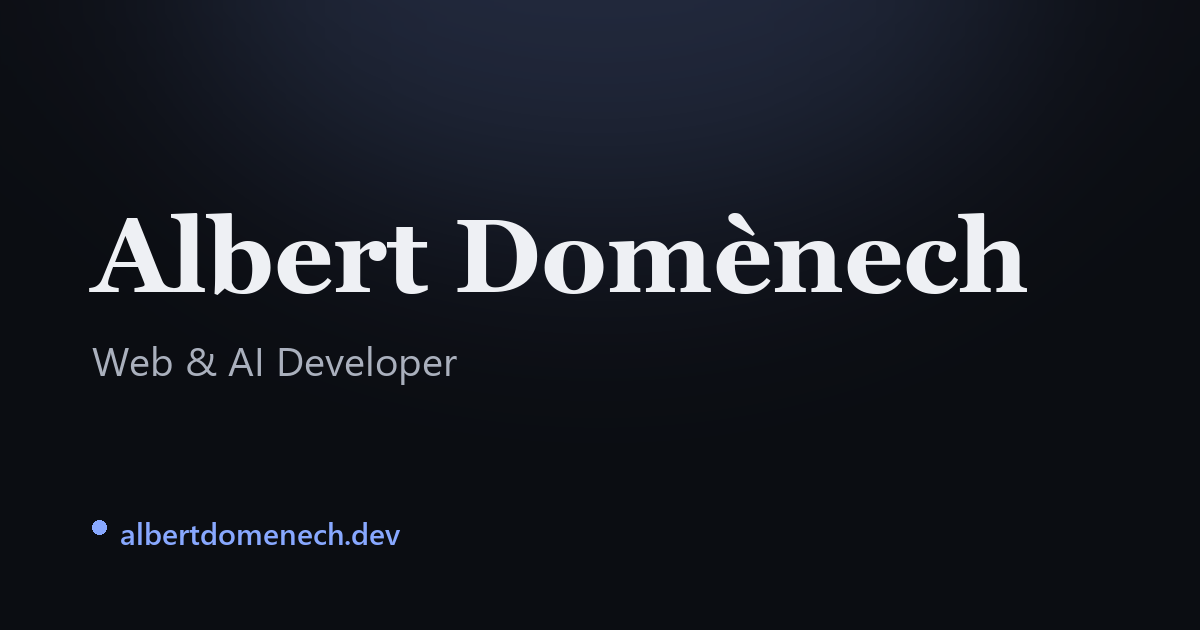
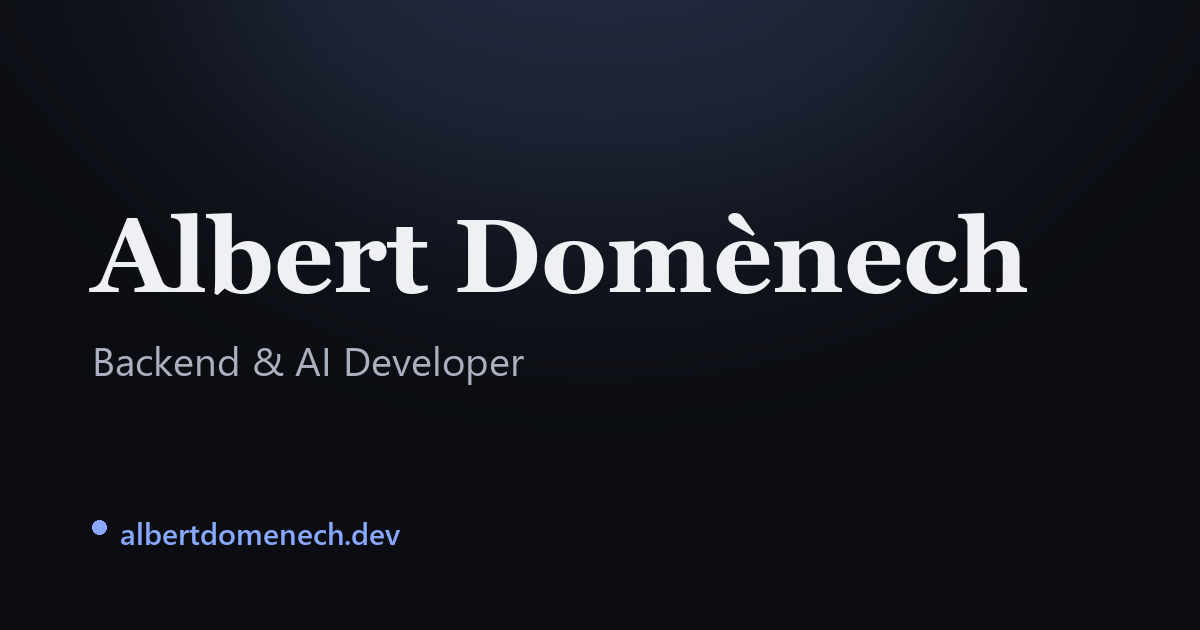
content: reposition hero and metadata as Backend & AI Developer

Changed region(s): [[0.0617, 0.5429, 0.4317, 0.6032]]

diff --git a/src/i18n/ui.ts b/src/i18n/ui.ts
@@ -9,16 +9,16 @@ export function pick(value: string | Localized, lang: Lang): string {
 
 export const ui = {
   es: {
-    title: 'Albert Domènech — Web & AI Developer',
-    desc: 'Albert Domènech — desarrollador web y de IA. App Android publicada en Google Play, software a medida en producción y herramientas de IA propias.',
-    ogDesc: 'Desarrollador web y de IA. App Android publicada en Google Play, software a medida en producción y herramientas de IA propias.',
-    twDesc: 'Desarrollador web y de IA. App publicada, software en producción y herramientas de IA propias.',
+    title: 'Albert Domènech — Backend & AI Developer',
+    desc: 'Albert Domènech — desarrollador backend e IA aplicada: APIs, integraciones, RAG y agentes. App publicada en Google Play y software en producción para clientes.',
+    ogDesc: 'Desarrollador backend e IA aplicada: APIs, integraciones, RAG y agentes. App publicada en Google Play y software en producción para clientes.',
+    twDesc: 'Backend e IA aplicada: APIs, integraciones, RAG y agentes.',
     navLabel: 'Navegación principal',
     logoLabel: 'Albert Domènech — inicio',
     navSkills: 'Skills',
     navProjects: 'Proyectos',
     navContact: 'Contacto',
-    heroRole: 'Desarrollador web y de IA. Freelance, y en prácticas de I+D en IA.',
+    heroRole: 'Desarrollador backend e IA aplicada: APIs, integraciones, RAG y agentes.',
     heroBio: 'Construyo producto de principio a fin dirigiendo agentes de IA y revisando cada línea: desde una app Android publicada en Google Play con cientos de usuarios, hasta software a medida en producción para clientes reales. Ahora, en prácticas, levanto un sistema interno de agentes y RAG en una empresa industrial. Me mueve la IA, la automatización y crear cosas que de verdad funcionan.',
     heroCta: 'Ver proyectos',
     skillsLabel: 'Skills',
@@ -35,16 +35,16 @@ export const ui = {
     noteForo: '(ForoPlus)',
   },
   ca: {
-    title: 'Albert Domènech — Desenvolupador web i IA',
-    desc: "Albert Domènech — desenvolupador web i de IA. App Android publicada a Google Play, programari a mida en producció i eines d'IA pròpies.",
-    ogDesc: "Desenvolupador web i de IA. App Android publicada a Google Play, programari a mida en producció i eines d'IA pròpies.",
-    twDesc: "Desenvolupador web i de IA. App publicada, programari en producció i eines d'IA pròpies.",
+    title: 'Albert Domènech — Desenvolupador backend i IA',
+    desc: 'Albert Domènech — desenvolupador backend i IA aplicada: APIs, integracions, RAG i agents. App publicada a Google Play i programari en producció per a clients.',
+    ogDesc: 'Desenvolupador backend i IA aplicada: APIs, integracions, RAG i agents. App publicada a Google Play i programari en producció per a clients.',
+    twDesc: 'Backend i IA aplicada: APIs, integracions, RAG i agents.',
     navLabel: 'Navegació principal',
     logoLabel: 'Albert Domènech — inici',
     navSkills: 'Habilitats',
     navProjects: 'Projectes',
     navContact: 'Contacte',
-    heroRole: 'Desenvolupador web i de IA. Freelance, i de pràctiques a R+D en IA.',
+    heroRole: 'Desenvolupador backend i IA aplicada: APIs, integracions, RAG i agents.',
     heroBio: "Construeixo producte de principi a fi dirigint agents d'IA i revisant cada línia: des d'una app Android publicada a Google Play amb centenars d'usuaris, fins a programari a mida en producció per a clients reals. Ara, de pràctiques, aixeco un sistema intern d'agents i RAG en una empresa industrial. Em mou la IA, l'automatització i crear coses que de debò funcionen.",
     heroCta: 'Veure projectes',
     skillsLabel: 'Habilitats',
@@ -61,16 +61,16 @@ export const ui = {
     noteForo: '(ForoPlus)',
   },
   en: {
-    title: 'Albert Domènech — Web & AI Developer',
-    desc: 'Albert Domènech — web & AI developer. Android app published on Google Play, custom software in production and in-house AI tooling.',
-    ogDesc: 'Web & AI developer. Android app published on Google Play, custom software in production and in-house AI tooling.',
-    twDesc: 'Web & AI developer. Shipped app, software in production and in-house AI tooling.',
+    title: 'Albert Domènech — Backend & AI Developer',
+    desc: 'Albert Domènech — backend & applied AI developer: APIs, integrations, RAG and agents. App published on Google Play and software running in production for clients.',
+    ogDesc: 'Backend & applied AI developer: APIs, integrations, RAG and agents. App published on Google Play and software running in production for clients.',
+    twDesc: 'Backend & applied AI: APIs, integrations, RAG and agents.',
     navLabel: 'Main navigation',
     logoLabel: 'Albert Domènech — home',
     navSkills: 'Skills',
     navProjects: 'Projects',
     navContact: 'Contact',
-    heroRole: 'Web & AI developer. Freelance, and an AI R&D intern.',
+    heroRole: 'Backend & applied AI developer: APIs, integrations, RAG and agents.',
     heroBio: "I build products end to end by directing AI agents and reviewing every line: from an Android app published on Google Play with hundreds of users, to custom software running in production for real clients. Right now, as an intern, I'm building an internal agents and RAG system at an industrial company. I'm driven by AI, automation, and shipping things that actually work.",
     heroCta: 'View projects',
     skillsLabel: 'Skills',
